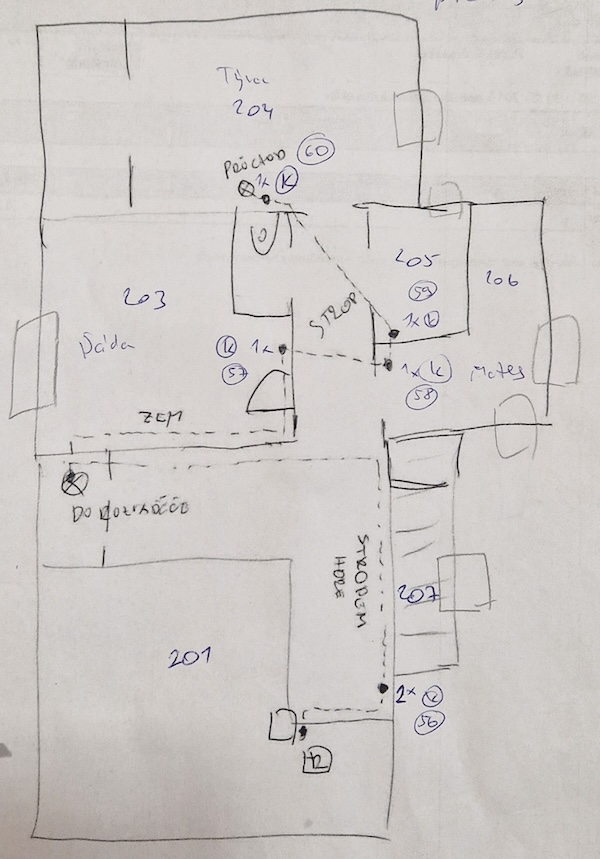
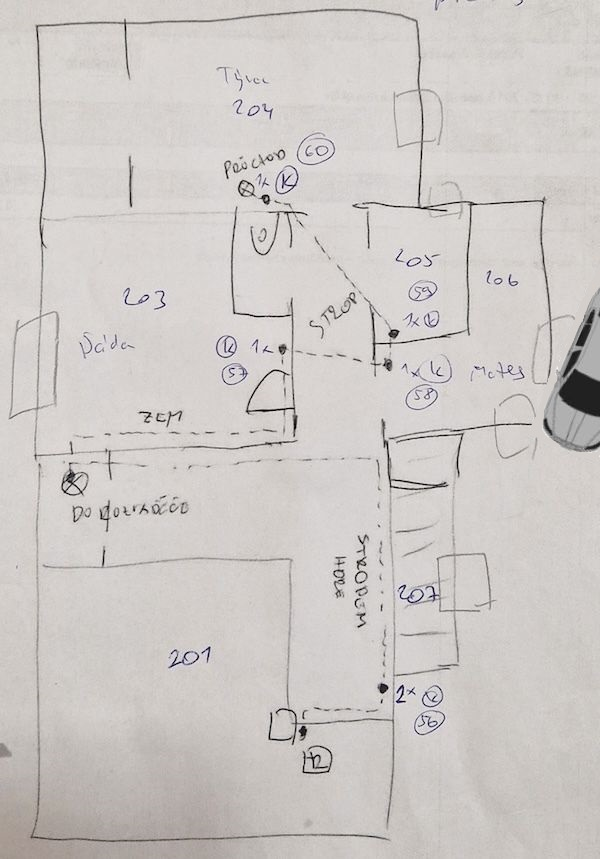
petr configuration

Changed region(s): [[0.87, 0.3329, 1.0, 0.5448]]

diff --git a/home-controller/app/src/main/resources/servlet/content/configuration-pipe.js b/home-controller/app/src/main/resources/servlet/content/configuration-pipe.js
@@ -12,31 +12,29 @@ function initConfiguration() {
 
 function getLouversComponents() {
     return [
-        new LouversItem('lvKoupH', 530, 473, 1),
-        new LouversItem('lvKrys', 530, 640, 1),
-        new LouversItem('lvPata', 530, 823, 1),
-        new LouversItem('lvMarek', 530, 1006, 1),
+        new LouversItem('lvLoznice', 45, 116, 0),
+        new LouversItem('lvPracovna', 45, 252, 0),
+        new LouversItem('lvPracovnaDvere', 45, 316, 0),
+        new LouversItem('lvKuchyn', 45, 547, 0),
+        new LouversItem('lvObyvak1', 45, 686, 0),
+        new LouversItem('lvObyvak2', 325, 842, 0),
+        new LouversItem('lvObyvak3', 121, 842, 0),
+        new LouversItem('lvObyvak4', 121, 774, 0),
+        new LouversItem('lvObyvak5', 192, 774, 0),
+        new LouversItem('lvObyvak6', 257, 774, 0),
+        new LouversItem('lvObyvak7', 325, 774, 0),
+        new LouversItem('lvObyvak8', 395, 709, 0),
+        new LouversItem('lvSchodiste', 425, 586, 0),
+        new LouversItem('lvSpajz', 422, 433, 0),
+        new LouversItem('lvKoupelnaDole', 457, 176, 0),
+        new LouversItem('lvDvorek', 412, 86, 0),
+        new LouversItem('lvDada', 42, 367, 1),
+        new LouversItem('lvOchoz', 459, 584, 1),
+        new LouversItem('lvMates2', 512, 424, 1),
+        new LouversItem('lvMates1', 554, 356, 1),
+        new LouversItem('lvKoupelnaHore', 455, 286, 1),
+        new LouversItem('lvJuju', 425, 123, 1),
 
-        new LouversItem('lvLoz1', 530, 1311, 1),
-        new LouversItem('lvLoz2', 397, 1440, 1),
-        new LouversItem('lvSat', 55, 1085, 1),
-        new LouversItem('lvPrc', 55, 1325, 1),
-
-        new LouversItem('lvKuch', 510, 809, 0),
-        new LouversItem('lvOb1', 510, 978, 0),
-        new LouversItem('lvOb2', 510, 1121, 0),
-        new LouversItem('lvOb3', 510, 1285, 0),
-
-        new LouversItem('lvOb4', 360, 1430, 0),
-        new LouversItem('lvOb5', 65, 1286, 0),
-        new LouversItem('lvOb6', 65, 882, 0),
-        new LouversItem('lvKoupD', 65, 510, 0),
-
-        new LouversItem('lvCh1', 55, 850, 1),
-        new LouversItem('lvCh2', 55, 512, 1),
-        new LouversItem('lvVrt1', 260, 118, 1),
-        new LouversItem('lvVrt2', 370, 50, 1),
-        new LouversItem('lvVrt3', 530, 298, 1),
     ];
 }
 
@@ -50,8 +48,8 @@ function getSensorComponents() {
 
 function getComponents() {
     return [
-        new StairsItem('stairsUp', 127, 690, 0, 1, '▲'),
-        new StairsItem('stairsDown', 127, 690, 1, 0, '▼'),
+        new StairsItem('stairsUp', 381, 518, 0, 1, '▲'),
+        new StairsItem('stairsDown', 420, 518, 1, 0, '▼'),
     ].concat(getLouversComponents());
 }
 

diff --git a/home-controller/app/src/main/resources/servlet/content/floorPlan.js b/home-controller/app/src/main/resources/servlet/content/floorPlan.js
@@ -106,7 +106,7 @@ function onPlanClick(event) {
         drawItems();
         return;
     }
-    // console.log(`new PwmLightItem('pwm', ${+Math.round(parseFloat(event.offsetX))}, ${Math.round(parseFloat(event.offsetY))}, ${currentFloor}),`);
+    // console.log(`new LouversItem('lv', ${+Math.round(parseFloat(event.offsetX))}, ${Math.round(parseFloat(event.offsetY))}, ${currentFloor}),`);
     // return;
 
     item.doAction(selectedToolbar.onClickAction);

diff --git a/home-controller/app/src/main/java/org/chuma/homecontroller/app/configurator/PiPeConfigurator.java b/home-controller/app/src/main/java/org/chuma/homecontroller/app/configurator/PiPeConfigurator.java
@@ -108,9 +108,47 @@ public class PiPeConfigurator extends AbstractConfigurator {
     @Override
     public void configure() {
         Node bridge = nodeInfoRegistry.createNode(1, "Bridge");
-        Node relay16testNode46 = nodeInfoRegistry.createNode(46, "Relay16testNode46");
-        Node relay16testNode47 = nodeInfoRegistry.createNode(47, "Relay16testNode48");
-        Node relay16testNode48 = nodeInfoRegistry.createNode(48, "Relay16testNode47");
+        Node rele1 = nodeInfoRegistry.createNode(46, "Relé 1");
+        Node rele2 = nodeInfoRegistry.createNode(47, "Relé 2");
+        Node rele3 = nodeInfoRegistry.createNode(48, "Relé 3");
+        Node krb = nodeInfoRegistry.createNode(38, "Krb");
+        Node kuchyn = nodeInfoRegistry.createNode(52, "Kuchyň");
+        Node pracovna = nodeInfoRegistry.createNode(53, "Pracovna");
+        Node koupelnadole = nodeInfoRegistry.createNode(54, "KoupelnaDole");
+        Node loznice = nodeInfoRegistry.createNode(55, "Ložnice");
+        Node ochoz = nodeInfoRegistry.createNode(56, "Ochoz");
+        Node dada = nodeInfoRegistry.createNode(57, "Dáda");
+        Node mates = nodeInfoRegistry.createNode(58, "Mates");
+        Node koupelnahore = nodeInfoRegistry.createNode(59, "KoupelnaHore");
+        Node juju = nodeInfoRegistry.createNode(60, "Juju");
+
+
+        Relay16BoardDevice releBoard1 = new Relay16BoardDevice("rele1", rele1);
+        Relay16BoardDevice releBoard2 = new Relay16BoardDevice("rele2", rele2);
+        Relay16BoardDevice releBoard3 = new Relay16BoardDevice("rele3", rele3);
+
+        LouversController zLoznice = addLouversController("lvLoznice", "Ložnice", releBoard3.getRelay(9), releBoard1.getRelay(10), 5_000);
+        LouversController zPracovna = addLouversController("lvPracovna", "Pracovna", releBoard2.getRelay(11), releBoard1.getRelay(12), 5_000);
+        LouversController zPracovnaDvere = addLouversController("lvPracovnaDvere", "PracovnaDveře", releBoard3.getRelay(15), releBoard1.getRelay(16), 5_000);
+        LouversController zKuchyn = addLouversController("lvKuchyn", "Kuchyň", releBoard2.getRelay(9), releBoard1.getRelay(10), 5_000);
+        LouversController zObyvak1 = addLouversController("lvObyvak1", "Obyvák1", releBoard2.getRelay(15), releBoard1.getRelay(16), 5_000);
+        LouversController zObyvak2 = addLouversController("lvObyvak2", "Obyvák2", releBoard1.getRelay(2), releBoard1.getRelay(1), 5_000);
+        LouversController zObyvak3 = addLouversController("lvObyvak3", "Obyvák3", releBoard2.getRelay(2), releBoard1.getRelay(1), 5_000);
+        LouversController zObyvak4 = addLouversController("lvObyvak4", "Obyvák4", releBoard3.getRelay(13), releBoard1.getRelay(14), 5_000);
+        LouversController zObyvak5 = addLouversController("lvObyvak5", "Obyvák5", releBoard3.getRelay(11), releBoard1.getRelay(12), 5_000);
+        LouversController zObyvak6 = addLouversController("lvObyvak6", "Obyvák6", releBoard2.getRelay(6), releBoard1.getRelay(5), 5_000);
+        LouversController zObyvak7 = addLouversController("lvObyvak7", "Obyvák7", releBoard2.getRelay(4), releBoard1.getRelay(3), 5_000);
+        LouversController zObyvak8 = addLouversController("lvObyvak8", "Obyvák8", releBoard1.getRelay(4), releBoard1.getRelay(3), 5_000);
+        LouversController zSchodiste = addLouversController("lvSchodiste", "Schodiště", releBoard2.getRelay(13), releBoard1.getRelay(14), 5_000);
+        LouversController zZpajz = addLouversController("lvSpajz", "Špajz", releBoard3.getRelay(4), releBoard1.getRelay(3), 5_000);
+        LouversController zKoupelnaDole = addLouversController("lvKoupelnaDole", "KoupelnaDole", releBoard2.getRelay(8), releBoard1.getRelay(7), 5_000);
+        LouversController zDvorek = addLouversController("lvDvorek", "Dvorek", releBoard3.getRelay(2), releBoard1.getRelay(1), 5_000);
+        LouversController zDada = addLouversController("lvDada", "Dáda", releBoard1.getRelay(15), releBoard1.getRelay(16), 5_000);
+        LouversController zOchoz = addLouversController("lvOchoz", "Ochoz", releBoard1.getRelay(11), releBoard1.getRelay(12), 5_000);
+        LouversController zMates2 = addLouversController("lvMates2", "Mates2", releBoard1.getRelay(6), releBoard1.getRelay(5), 5_000);
+        LouversController zMates1 = addLouversController("lvMates1", "Mates1", releBoard1.getRelay(8), releBoard1.getRelay(7), 5_000);
+        LouversController zKoupelnaHore = addLouversController("lvKoupelnaHore", "KoupelnaHore", releBoard1.getRelay(13), releBoard1.getRelay(14), 5_000);
+        LouversController zJuju = addLouversController("lvJuju", "Juju", releBoard1.getRelay(9), releBoard1.getRelay(10), 5_000);
 
 
         InverterManager inverterManager = null;
@@ -136,9 +174,9 @@ public class PiPeConfigurator extends AbstractConfigurator {
 
         //test wall switch application
 //        WallSwitch testSw = new WallSwitch("testSwA", switchTestNode, 1, 0.01);
-        servletActions.add(new ServletAction("testRele16-46", "Rele16-46", new Relay16TestLoopAction(new Relay16BoardDevice("test46", relay16testNode46))));
-        servletActions.add(new ServletAction("testRele16-47", "Rele16-47", new Relay16TestLoopAction(new Relay16BoardDevice("test47", relay16testNode47))));
-        servletActions.add(new ServletAction("testRele16-48", "Rele16-48", new Relay16TestLoopAction(new Relay16BoardDevice("test48", relay16testNode48))));
+//        servletActions.add(new ServletAction("testRele16-46", "Rele16-46", new Relay16TestLoopAction(new Relay16BoardDevice("test46", rele1))));
+//        servletActions.add(new ServletAction("testRele16-47", "Rele16-47", new Relay16TestLoopAction(new Relay16BoardDevice("test47", rele2))));
+//        servletActions.add(new ServletAction("testRele16-48", "Rele16-48", new Relay16TestLoopAction(new Relay16BoardDevice("test48", rele3))));
 
         List<WebSocketHandler> wsHandlers = new ArrayList<>();
         // page handlers
